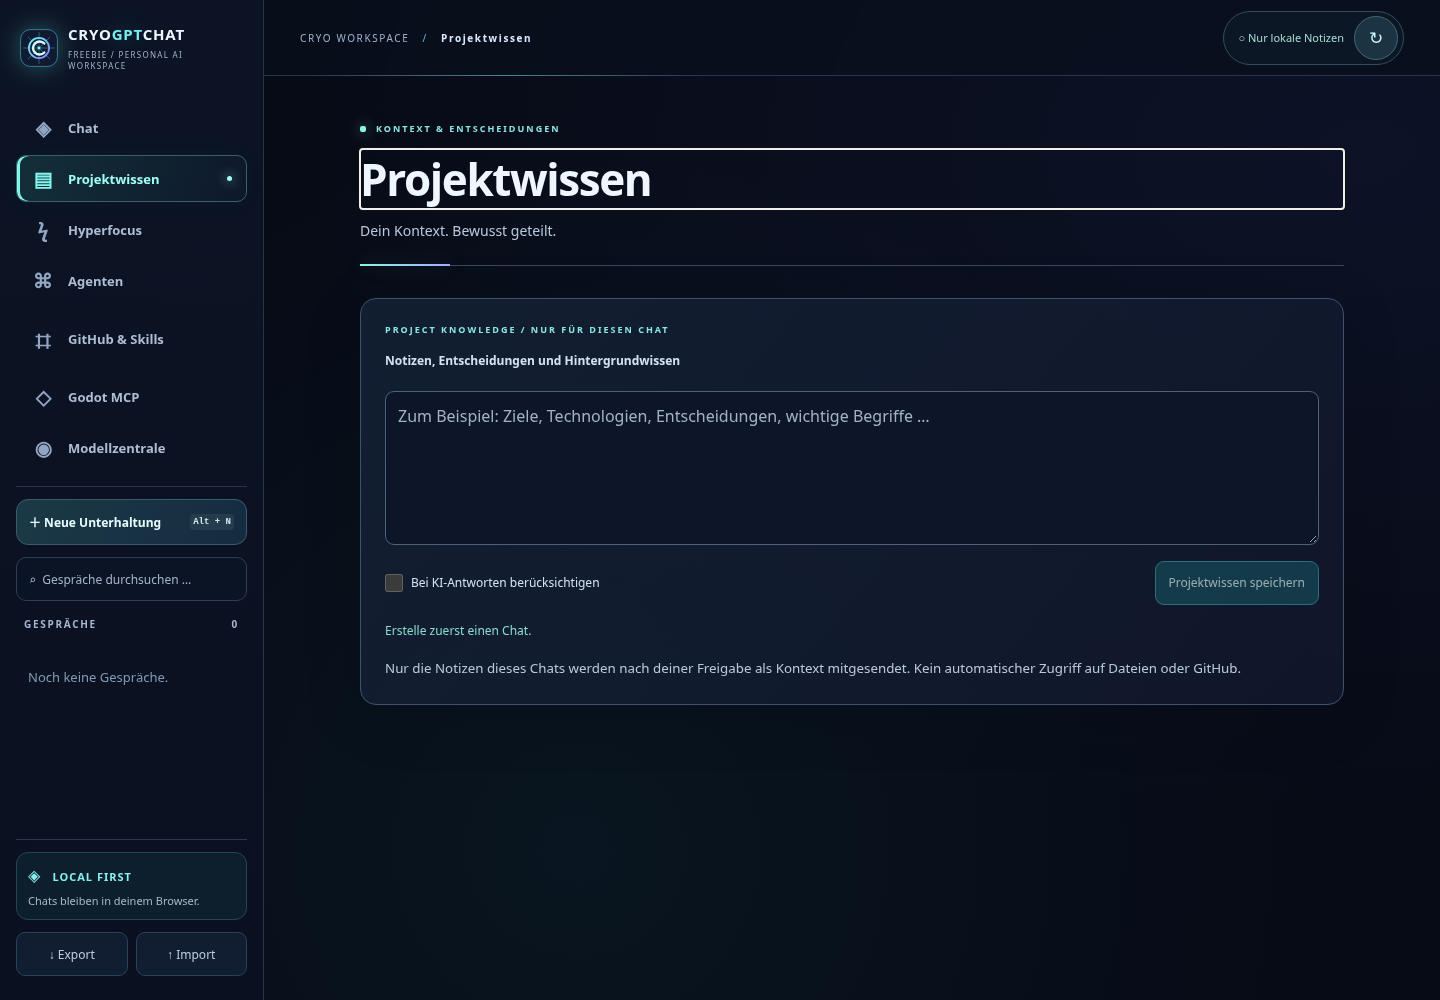
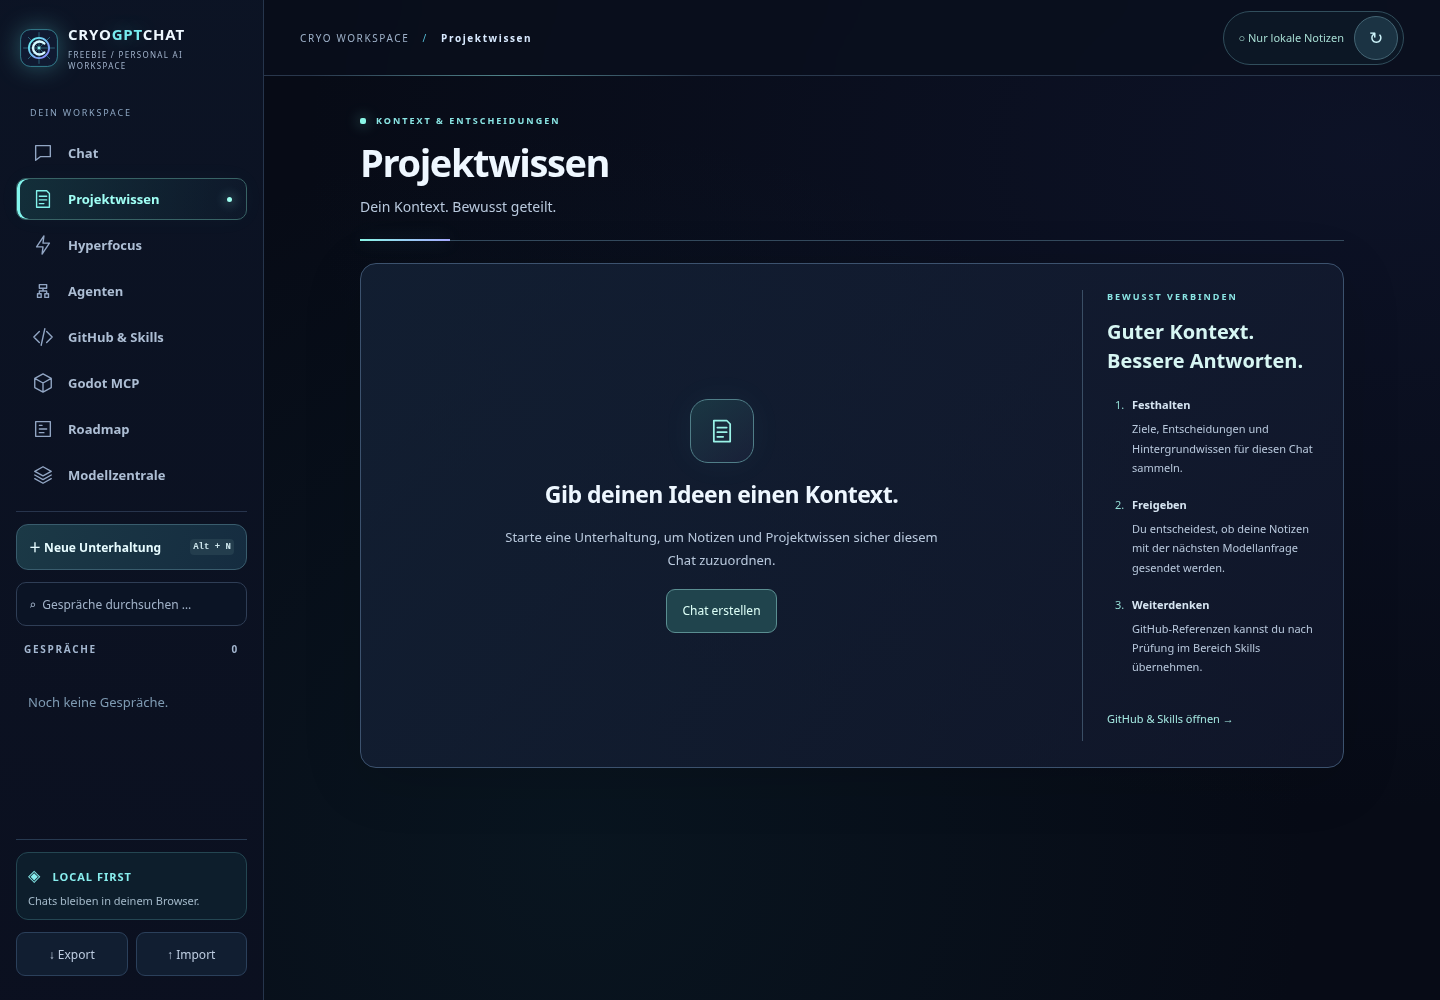
test: verify all roadmap versions and document interface refinements

diff --git a/e2e/workspace.spec.js b/e2e/workspace.spec.js
@@ -29,7 +29,7 @@ for (const width of [360, 768, 1440])
     const errors = [];
     page.on("pageerror", (e) => errors.push(e.message));
     await page.goto("/");
-    await expect(page.locator(".workspace-nav a")).toHaveCount(7);
+    await expect(page.locator(".workspace-nav a")).toHaveCount(8);
     for (const view of [
       "chat",
       "knowledge",
@@ -38,6 +38,7 @@ for (const width of [360, 768, 1440])
       "skills",
       "godot",
       "models",
+      "roadmap",
     ]) {
       await page.goto("/#" + view);
       await expect(
@@ -328,6 +329,7 @@ test("import remains confirmed, generation can stop, Godot keeps preview before 
   await page.locator("#cryo-dialog-confirm").click();
   await expect(page.locator("#godot-output")).toContainText("Godot 4.4");
   await expect(page.locator("#scene-create")).toBeDisabled();
+  await page.locator(".godot-scene-disclosure > summary").click();
   await page.locator("#scene-name").fill("Demo");
   await page.locator("#scene-preview").click();
   await expect(page.locator("#scene-create")).toBeEnabled();
@@ -351,4 +353,104 @@ test("skip link preserves selected view and browser history restores views", asy
   await expect(
     page.locator('.workspace-nav a[aria-current="page"]'),
   ).toHaveAttribute("href", "#models");
+});
+
+test("all 100 roadmap versions are browsable with phase/status filters and full details", async ({
+  page,
+}) => {
+  await mock(page);
+  await page.goto("/#roadmap");
+  await expect(page.locator("#roadmap-list button")).toHaveCount(10);
+  const versions = [];
+  for (let i = 0; i < 10; i++) {
+    versions.push(
+      ...(await page
+        .locator("#roadmap-list button")
+        .evaluateAll((buttons) => buttons.map((b) => b.dataset.version))),
+    );
+    if (i < 9) await page.locator("#roadmap-next").click();
+  }
+  expect(versions).toHaveLength(100);
+  expect(new Set(versions).size).toBe(100);
+  await page.locator('button[data-version="10.0"]').click();
+  await expect(page.locator("#roadmap-detail-title")).toContainText("v10.0");
+  await expect(page.locator("#roadmap-detail-content")).toContainText(
+    "Abnahmekriterium",
+  );
+  await page.locator("#roadmap-search").fill("v0.6");
+  await expect(page.locator("#roadmap-list button")).toHaveCount(1);
+  await expect(page.locator("#roadmap-detail-title")).toContainText(
+    "Browser-End-to-End",
+  );
+  await page.locator("#roadmap-search").fill("");
+  await page.locator("#roadmap-status").selectOption("implemented");
+  await expect(page.locator("#roadmap-list button")).toHaveCount(6);
+  await page.locator("#roadmap-status").selectOption("");
+  await page.locator("#roadmap-phase").selectOption("10");
+  await expect(page.locator("#roadmap-list button")).toHaveCount(10);
+  await expect(page.locator("#roadmap-list")).toContainText("Vision 10.0");
+  await page.locator("#roadmap-search").fill("no-such-feature");
+  await expect(page.locator("#roadmap-result-count")).toHaveText(
+    "0 passende Meilensteine",
+  );
+  await expect(page.locator(".roadmap-detail")).toBeHidden();
+});
+test("knowledge empty state creates a chat without losing the selected tool", async ({
+  page,
+}) => {
+  await mock(page);
+  await page.goto("/#knowledge");
+  await expect(
+    page.getByRole("button", { name: "Chat erstellen", exact: true }),
+  ).toBeVisible();
+  await page
+    .getByRole("button", { name: "Chat erstellen", exact: true })
+    .click();
+  await expect(page).toHaveURL(/#knowledge$/);
+  await expect(page.locator("#project-context")).toBeEnabled();
+  await page.locator("#project-context").fill("Ein präziser Kontext");
+  await expect(page.locator("#context-dirty")).toHaveText(
+    "Ungespeicherte Änderungen",
+  );
+  await page.locator("#save-project-notes").click();
+  await expect(page.locator("#context-dirty")).toHaveText("Lokal gespeichert");
+});
+test("mobile welcome makes the composer reachable without a long introductory scroll", async ({
+  page,
+}) => {
+  await page.setViewportSize({ width: 360, height: 850 });
+  await mock(page);
+  await page.goto("/");
+  await expect(page.locator(".workspace-nav a")).toHaveCount(8);
+  const top = await page
+    .locator("#composer")
+    .evaluate((n) => n.getBoundingClientRect().top);
+  expect(top).toBeLessThan(760);
+  await page.goto("/#models");
+  await page.locator("#model-search").fill("no-such-model");
+  await expect(
+    page.getByRole("button", { name: "Suche zurücksetzen" }),
+  ).toBeVisible();
+  await page.getByRole("button", { name: "Suche zurücksetzen" }).click();
+  await expect(page.locator("#model-search")).toHaveValue("");
+  await expect(page.locator(".model-card")).toHaveCount(2);
+});
+
+test("roadmap loading failure offers recovery without duplicate summary data", async ({
+  page,
+}) => {
+  let requests = 0;
+  await mock(page);
+  await page.route("**/api/roadmap", (r) =>
+    ++requests === 1
+      ? r.fulfill({ status: 503, json: { error: "temporary" } })
+      : r.continue(),
+  );
+  await page.goto("/#roadmap");
+  await expect(page.locator("#roadmap-result-count")).toHaveText(
+    "Roadmap nicht erreichbar.",
+  );
+  await page.getByRole("button", { name: "Erneut laden", exact: true }).click();
+  await expect(page.locator("#roadmap-list button")).toHaveCount(10);
+  await expect(page.locator(".roadmap-counts > div")).toHaveCount(3);
 });

diff --git a/tests/roadmap-data.test.js b/tests/roadmap-data.test.js
@@ -1,0 +1,41 @@
+import test from "node:test";
+import assert from "node:assert/strict";
+import { readFileSync } from "node:fs";
+import { parseRoadmap } from "../src/roadmap.mjs";
+const source = readFileSync(
+  new URL("../docs/roadmap/ROADMAP-100.md", import.meta.url),
+  "utf8",
+);
+test("roadmap API data preserves all 100 deliverables and acceptance gates across ten phases", () => {
+  const { phases, milestones } = parseRoadmap(source);
+  assert.equal(phases.length, 10);
+  assert.equal(milestones.length, 100);
+  for (const p of phases)
+    assert.equal(milestones.filter((m) => m.phase === p.id).length, 10);
+  for (const m of milestones) {
+    assert.ok(m.title && m.deliverable && m.acceptance);
+    assert.ok(["implemented", "partial", "planned"].includes(m.status));
+  }
+  assert.equal(
+    milestones.find((m) => m.version === "0.6").status,
+    "implemented",
+  );
+  assert.equal(milestones.find((m) => m.version === "0.7").status, "partial");
+  assert.equal(milestones.at(-1).status, "planned");
+});
+test("missing, duplicate or incomplete roadmap entries fail instead of publishing misleading data", () => {
+  assert.throws(() =>
+    parseRoadmap(
+      source.replace("v0.2 · Token-Streaming", "v0.1 · Token-Streaming"),
+    ),
+  );
+  assert.throws(() =>
+    parseRoadmap(
+      source.replace(
+        "**Lieferobjekt:** Chats erstellen",
+        "**Unvollständig:** Chats erstellen",
+      ),
+    ),
+  );
+  assert.throws(() => parseRoadmap(""));
+});

diff --git a/docs/workspace.md b/docs/workspace.md
@@ -6,7 +6,7 @@ Die ursprüngliche Oberfläche verschachtelte GitHub und Agenten im Projektwisse
 
 ## Bedienung und Gestaltung
 
-Die neue Navigation trennt Chat, Projektwissen, Hyperfocus, Agenten, GitHub/Skills, Godot und Modelle. Jede Ansicht hat einen Hash-Link (`#chat`, `#knowledge`, `#focus`, `#agents`, `#skills`, `#godot`, `#models`); Browser-Zurück/Vorwärts bleibt verfügbar. Ergebnisse aus Agenten und Hyperfocus gelangen ausschließlich auf ausdrücklichen Wunsch als Entwurf in den Chat.
+Die neue Navigation trennt Chat, Projektwissen, Hyperfocus, Agenten, GitHub/Skills, Godot, Roadmap und Modelle. Jede Ansicht hat einen Hash-Link (`#chat`, `#knowledge`, `#focus`, `#agents`, `#skills`, `#godot`, `#roadmap`, `#models`); Browser-Zurück/Vorwärts bleibt verfügbar. Ergebnisse aus Agenten und Hyperfocus gelangen ausschließlich auf ausdrücklichen Wunsch als Entwurf in den Chat.
 
 Das Design verwendet dunkles Navy, Eis-Cyan und violette Akzente. Gemeinsame CSS-Tokens definieren Grundfarben, Oberflächen, Radius und Bewegung. Neon-Ringe, dezente Einblendungen, transparente Flächen und Statusanzeigen strukturieren die Oberfläche. Systemschriften und lokale Assets benötigen keine externen CDNs. `prefers-reduced-motion` schaltet dekorative Animationen aus. Die mobile Navigation unterstützt Escape, Fokusbegrenzung, Rückgabe des Fokus und ausgeblendeten Hintergrund; native HTML-Dialoge übernehmen die modale Tastaturbedienung.
 
@@ -75,8 +75,20 @@ npm run test:e2e
 
 Der Server benötigt Node 20+. Browser-Tests verwenden Node 24 in CI; aktuelle axe-Entwicklungsabhängigkeiten benötigen mindestens Node 22.12. Die Laufzeit hat weiterhin keine npm-Abhängigkeiten.
 
-Node-Tests prüfen bestehende Funktionen sowie Markdown-Validierung, exklusive lokale Ausgabe, Symlink-Schutz, Ablauf/Wiederverwendung, geänderten Basisbranch und GitHub-Teilfehler. Playwright prüft sieben Ansichten bei 360/768/1440 Pixeln mit axe, Tastatur-/Dialogbedienung, Chats, Streaming/Abbruch, Projektwissen, Backup-Import/Export, Modelle, Skills, Hyperfocus, Agenten und Godot. CI behält Node 20/22 bei und ergänzt einen Chromium-Job mit Fehler-Screenshots und Traces.
+Node-Tests prüfen bestehende Funktionen sowie Markdown-Validierung, exklusive lokale Ausgabe, Symlink-Schutz, Ablauf/Wiederverwendung, geänderten Basisbranch und GitHub-Teilfehler. Playwright prüft acht Ansichten bei 360/768/1440 Pixeln mit axe, Tastatur-/Dialogbedienung, Chats, Streaming/Abbruch, Projektwissen, Backup-Import/Export, Modelle, Skills, Hyperfocus, Agenten und Godot. CI behält Node 20/22 bei und ergänzt einen Chromium-Job mit Fehler-Screenshots und Traces.
 
 Externe Dienste werden in Tests simuliert. Echte kostenpflichtige Cloud-Anfragen, reale Godot-Installationen und Schreibaktionen in fremden GitHub-Repositories werden nicht durch die Tests ausgeführt. Automatische axe-Prüfungen ersetzen keinen vollständigen Screenreader-Test.
 
 Echte Screenshots der lokal laufenden Oberfläche: [Desktop](screenshots/workspace-desktop.png), [Mobile](screenshots/workspace-mobile.png), [Agenten](screenshots/agents.png). Der [vorherige Chat](screenshots/before.png) zeigt die ursprüngliche Oberfläche. Weitere Ansichten liegen im Screenshot-Ordner; sie zeigen den Zustand ohne konfigurierte externe Dienste.
+
+## Interaktive Roadmap und Interface-Feinschliff
+
+`#roadmap` erschließt alle 100 Versionen von v0.1 bis v10.0 über zehn Phasen. Suche, Status- und Phasenfilter sowie Seiten mit je zehn Einträgen führen zu vollständigen Versionsdetails mit Lieferobjekt und Abnahmekriterium. Auf Desktop stehen Liste und Details nebeneinander; auf Mobile werden Details oberhalb der Liste angezeigt und nach Auswahl fokussiert.
+
+`GET /api/roadmap` liest die bestehende Markdown-Roadmap serverseitig über `src/roadmap.mjs`. Die Dokumentation bleibt die einzige Datenquelle; es gibt keine separat zu pflegende JSON-Kopie. Der Parser prüft alle 100 aufeinanderfolgenden Versionsnummern, zehn Phasen und vollständige Abnahmekriterien. Ungültige Quelldaten erzeugen einen Fehler mit Wiederholungsaktion in der Oberfläche. Es werden keine Releases oder Implementierungen aus Versionsnummern abgeleitet.
+
+Statusabgleich nach PR #13: v0.1–v0.6 sind Entwicklungsmeilensteine im Code; v0.7 und v6.1 sind teilweise umgesetzt. Eine vollständige manuelle WCAG-2.2-AA-Abnahme bleibt offen. Weitere Ziele behalten ihren Planungsstatus, bis ihre Gates belegt sind.
+
+Der Interface-Feinschliff ergänzt einheitliche SVG-Symbole, kompakte mobile Vorschläge, eine Kontextleiste, zweispaltige Agentenformulare, einen Notizeditor mit Zeichen-/Änderungsanzeige und erklärten Freigaben, Hyperfocus-Phasen und aufklappbare Godot-Szenenoptionen. Leere Modelllisten unterscheiden fehlende Verbindung und erfolglose Suche mit passenden Aktionen. Der Notiz-Leerzustand erstellt einen Chat und kehrt direkt zum Werkzeug zurück. Bestehende Freigaben und Backups bleiben erhalten.
+
+Aktuelle Abdeckung: 69 Node-Tests und 14 Browser-Tests, einschließlich sämtlicher 100 Roadmap-Versionen, Filter, Mobile-Composer und Kontext-Leerzustand. [Roadmap auf Desktop](screenshots/roadmap.png) · [Roadmap auf Mobile](screenshots/roadmap-mobile.png).

diff --git a/README.md b/README.md
@@ -31,7 +31,13 @@
 
 ![Echter Screenshot des neuen Cryo-Neon-Workspace](docs/screenshots/workspace-desktop.png)
 
-Sieben eigene Ansichten, mobile Navigation, einheitliche Freigabedialoge und reduzierte Bewegung auf Wunsch. Neu sind Modellfavoriten, kopierbare Nachrichten, Skill-Karten, lokale Hyperfocus-Historie und einzeln freigegebene Agenten-Schrittfolgen. Markdown-Ausgaben lokal oder über neue GitHub-Branches und PRs bleiben standardmäßig gesperrt und benötigen eigene serverseitige Opt-ins. [Bedienung, Konfiguration und Grenzen →](docs/workspace.md)
+Acht eigene Ansichten einschließlich einer durchsuchbaren Roadmap mit allen 100 Versions-Meilensteinen, mobile Navigation, einheitliche Freigabedialoge und reduzierte Bewegung auf Wunsch. Neu sind Modellfavoriten, kopierbare Nachrichten, Skill-Karten, lokale Hyperfocus-Historie und einzeln freigegebene Agenten-Schrittfolgen. Markdown-Ausgaben lokal oder über neue GitHub-Branches und PRs bleiben standardmäßig gesperrt und benötigen eigene serverseitige Opt-ins. [Bedienung, Konfiguration und Grenzen →](docs/workspace.md)
+
+### Alle Versionen im Blick
+
+![Interaktive Roadmap mit Versionsdetails und belegtem Status](docs/screenshots/roadmap.png)
+
+Suche nach Themen oder Versionsnummern, filtere nach Phase und Status und prüfe Lieferobjekt und Abnahmekriterium jeder Version. Die Ansicht liest die bestehende Markdown-Roadmap; geplante Funktionen bleiben als geplant gekennzeichnet.
 
 ## ✨ Funktionen
 

diff --git a/docs/roadmap/RESEARCH.md b/docs/roadmap/RESEARCH.md
@@ -1,5 +1,13 @@
 # Rechercheprotokoll · CryoGPTCHATFREEBIE Roadmap (2026-10-21)
 
+## Aktualisierung nach PR #13
+
+Der folgende Recherchebericht dokumentiert den historischen Stand vor dem Workspace-Umbau. Seit [PR #13](https://github.com/Pierreg99/CryoGPTCHATFREEBIE/pull/13) gibt es Browser-E2E und axe-Prüfungen, ein responsives Designsystem, Modellfavoriten, Hyperfocus-Historie, freizugebende Agentenfolgen und separat aktivierbare Markdown-Ausgabe. Node 20/22 und Chromium auf Node 24 wurden in CI erfolgreich geprüft. Externe Modell-/Godot-/GitHub-Schreibdienste bleiben in Tests simuliert.
+
+Die Roadmap wird jetzt zusätzlich als browsbare Ansicht aus derselben Markdown-Datei dargestellt. v0.6 ist umgesetzt; v0.7 und v6.1 sind teilweise umgesetzt. Die übrigen offenen Gates sind weiterhin Planung und keine Release-Tags. Aktuelle Bedienung und Grenzen: [Workspace-Dokumentation](../workspace.md).
+
+## Historischer Recherchebericht
+
 ## Untersuchungsumfang
 
 Die Bewertung basiert auf dem öffentlich verbundenen Repository [Pierreg99/CryoGPTCHATFREEBIE](https://github.com/Pierreg99/CryoGPTCHATFREEBIE) (Branch `main` vor Erstellung dieses Dokumentationsbranches). Einbezogen wurden README, Dokumentationsdateien, Quellcode, CI und die Pull-Request-Historie. Dies ist ein **Code-/Dokumentations-Audit**, kein ausgelieferter Penetrationstest, kein vollständiger Browser-E2E-Test und keine Gewähr, dass optionale Provider/Godot lokal eingerichtet sind.
